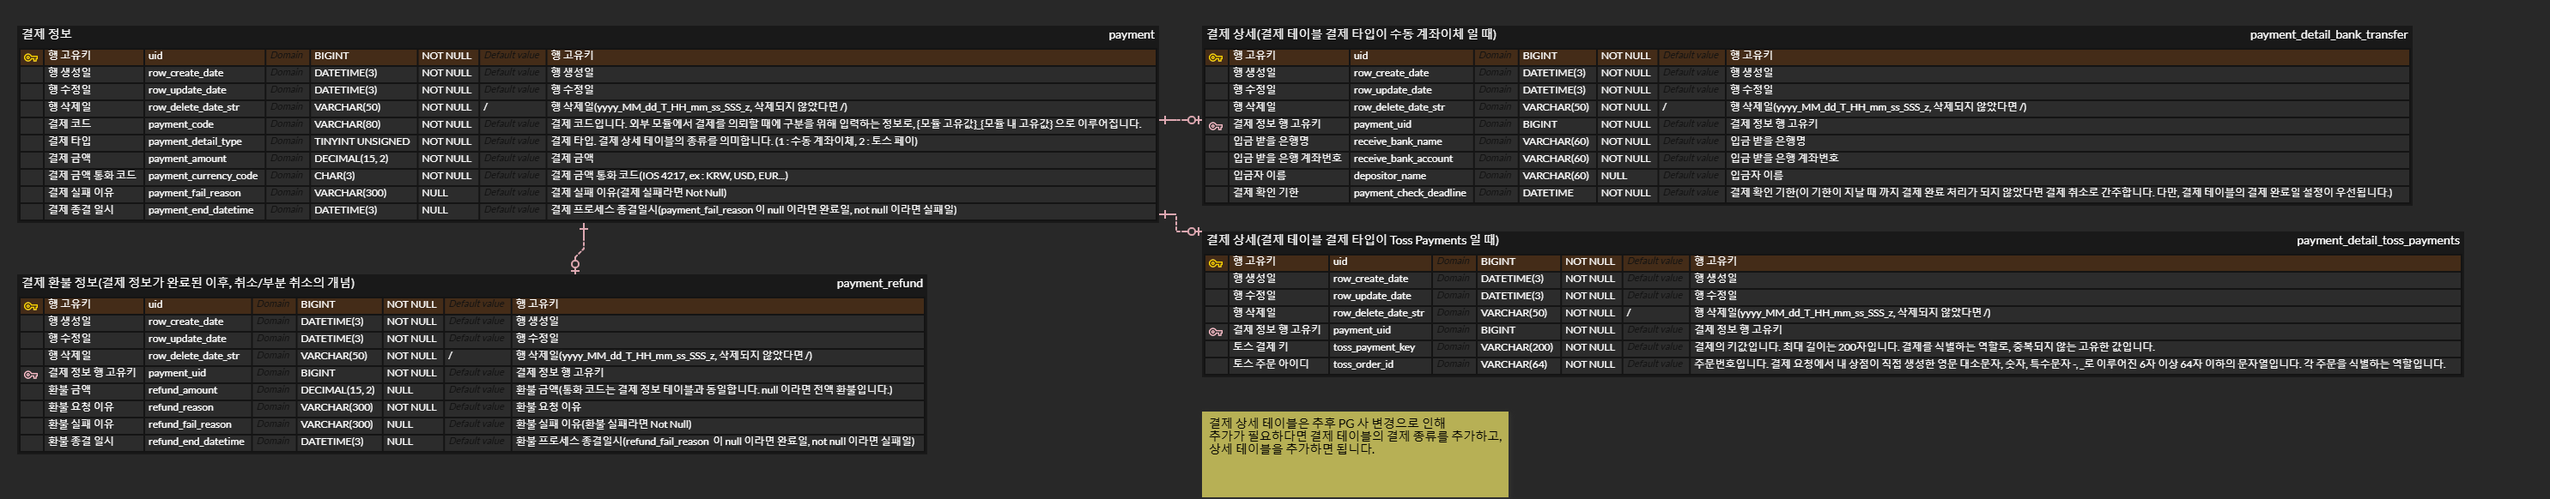
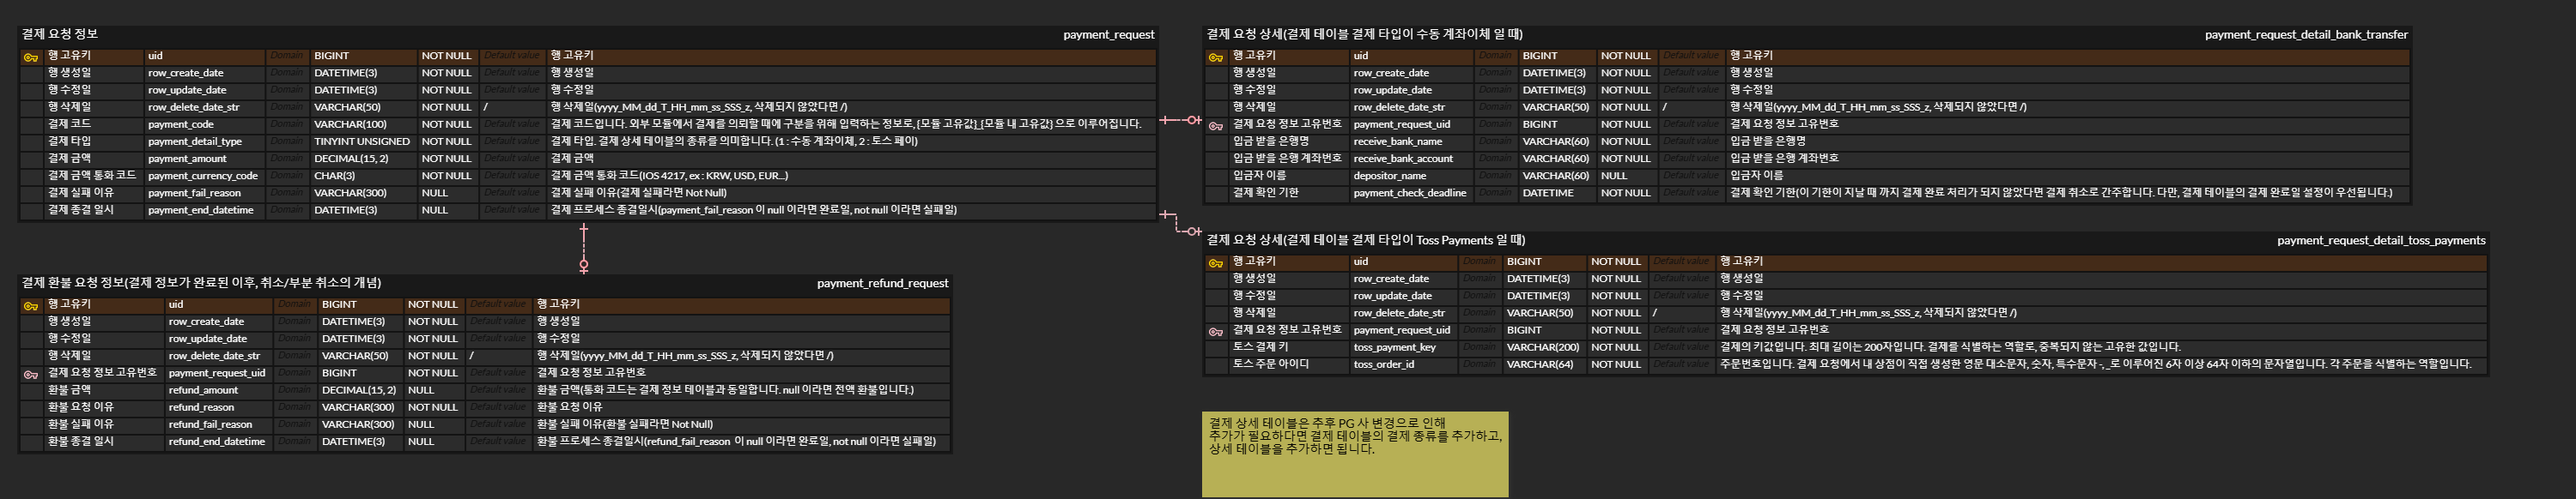
feat : ERD 수정 및 JPA 클래스 추가

diff --git a/module-payment/src/main/kotlin/com/raillylinker/jpa_beans/db1_main/entities/Db1_RaillyLinkerCompany_PaymentRequest.kt b/module-payment/src/main/kotlin/com/raillylinker/jpa_beans/db1_main/entities/Db1_RaillyLinkerCompany_PaymentRequest.kt
@@ -1,0 +1,86 @@
+package com.raillylinker.jpa_beans.db1_main.entities
+
+import jakarta.persistence.*
+import org.hibernate.annotations.ColumnDefault
+import org.hibernate.annotations.Comment
+import org.hibernate.annotations.CreationTimestamp
+import org.hibernate.annotations.UpdateTimestamp
+import java.math.BigDecimal
+import java.time.LocalDateTime
+
+@Entity
+@Table(
+    name = "payment_request",
+    catalog = "railly_linker_company",
+    uniqueConstraints = [
+        UniqueConstraint(columnNames = ["payment_code", "row_delete_date_str"])
+    ]
+)
+@Comment("결제 요청 정보 테이블")
+class Db1_RaillyLinkerCompany_PaymentRequest(
+    @Column(name = "payment_code", nullable = false, columnDefinition = "VARCHAR(100)")
+    @Comment("결제 코드입니다. 외부 모듈에서 결제를 의뢰할 때에 구분을 위해 입력하는 정보로, {모듈간 구분할 수 있는 고유값}_{모듈 내에서 구분 가능한 고유값} 으로 이루어집니다.")
+    var paymentCode: String,
+
+    @Column(name = "payment_detail_type", nullable = false, columnDefinition = "TINYINT UNSIGNED")
+    @Comment("결제 타입. 결제 상세 테이블의 종류를 의미합니다. (1 : 수동 계좌이체, 2 : 토스 페이)")
+    var paymentDetailType: Short,
+
+    @Column(name = "payment_amount", nullable = false, columnDefinition = "DECIMAL(15, 2)")
+    @Comment("결제 금액")
+    var paymentAmount: BigDecimal,
+
+    @Column(name = "payment_currency_code", nullable = false, columnDefinition = "CHAR(3)")
+    @Comment("결제 금액 통화 코드(IOS 4217, ex : KRW, USD, EUR...)")
+    var paymentCurrencyCode: String,
+
+    @Column(name = "payment_fail_reason", nullable = true, columnDefinition = "VARCHAR(300)")
+    @Comment("결제 실패 이유(결제 실패라면 Not Null)")
+    var paymentFailReason: String?,
+
+    @Column(name = "payment_end_datetime", nullable = true, columnDefinition = "DATETIME(3)")
+    @Comment("결제 프로세스 종결일시(payment_fail_reason 이 null 이라면 완료일, not null 이라면 실패일)")
+    var paymentEndDatetime: LocalDateTime?
+) {
+    @Id
+    @GeneratedValue(strategy = GenerationType.IDENTITY)
+    @Column(name = "uid", columnDefinition = "BIGINT")
+    @Comment("행 고유값")
+    var uid: Long? = null
+
+    @Column(name = "row_create_date", nullable = false, columnDefinition = "DATETIME(3)")
+    @CreationTimestamp
+    @Comment("행 생성일")
+    var rowCreateDate: LocalDateTime? = null
+
+    @Column(name = "row_update_date", nullable = false, columnDefinition = "DATETIME(3)")
+    @UpdateTimestamp
+    @Comment("행 수정일")
+    var rowUpdateDate: LocalDateTime? = null
+
+    @Column(name = "row_delete_date_str", nullable = false, columnDefinition = "VARCHAR(50)")
+    @ColumnDefault("'/'")
+    @Comment("행 삭제일(yyyy_MM_dd_T_HH_mm_ss_SSS_z, 삭제되지 않았다면 /)")
+    var rowDeleteDateStr: String = "/"
+
+    // ---------------------------------------------------------------------------------------------
+    // [@OneToMany 변수들]
+    // Row 삭제시 삭제 처리
+    @OneToMany(mappedBy = "paymentRequest", fetch = FetchType.LAZY, cascade = [CascadeType.ALL])
+    var paymentRefundRequestList: MutableList<Db1_RaillyLinkerCompany_PaymentRefundRequest> = mutableListOf()
+
+    // Row 삭제시 삭제 처리
+    @OneToMany(mappedBy = "paymentRequest", fetch = FetchType.LAZY, cascade = [CascadeType.ALL])
+    var paymentRequestDetailBankTransferList: MutableList<Db1_RaillyLinkerCompany_PaymentRequestDetailBankTransfer> =
+        mutableListOf()
+
+    // Row 삭제시 삭제 처리
+    @OneToMany(mappedBy = "paymentRequest", fetch = FetchType.LAZY, cascade = [CascadeType.ALL])
+    var paymentRequestDetailTossPaymentsList: MutableList<Db1_RaillyLinkerCompany_PaymentRequestDetailTossPayments> =
+        mutableListOf()
+
+
+    // ---------------------------------------------------------------------------------------------
+    // <중첩 클래스 공간>
+
+}

diff --git a/module-payment/src/main/kotlin/com/raillylinker/jpa_beans/db1_main/entities/Db1_RaillyLinkerCompany_PaymentRequestDetailBankTransfer.kt b/module-payment/src/main/kotlin/com/raillylinker/jpa_beans/db1_main/entities/Db1_RaillyLinkerCompany_PaymentRequestDetailBankTransfer.kt
@@ -1,0 +1,67 @@
+package com.raillylinker.jpa_beans.db1_main.entities
+
+import jakarta.persistence.*
+import org.hibernate.annotations.ColumnDefault
+import org.hibernate.annotations.Comment
+import org.hibernate.annotations.CreationTimestamp
+import org.hibernate.annotations.UpdateTimestamp
+import java.math.BigDecimal
+import java.time.LocalDateTime
+
+@Entity
+@Table(
+    name = "payment_request_detail_bank_transfer",
+    catalog = "railly_linker_company"
+)
+@Comment("결제 요청 상세(결제 테이블 결제 타입이 수동 계좌이체 일 때)")
+class Db1_RaillyLinkerCompany_PaymentRequestDetailBankTransfer(
+    @ManyToOne
+    @JoinColumn(name = "payment_request_uid", nullable = false)
+    @Comment("결제 요청 정보 고유번호(railly_linker_company.payment_request.uid)")
+    var paymentRequest: Db1_RaillyLinkerCompany_PaymentRequest,
+
+    @Column(name = "receive_bank_name", nullable = false, columnDefinition = "VARCHAR(60)")
+    @Comment("입금 받을 은행명")
+    var receiveBankName: String,
+
+    @Column(name = "receive_bank_account", nullable = false, columnDefinition = "VARCHAR(60)")
+    @Comment("입금 받을 은행 계좌번호")
+    var receiveBankAccount: String,
+
+    @Column(name = "depositor_name", nullable = true, columnDefinition = "VARCHAR(60)")
+    @Comment("입금자 이름")
+    var depositorName: String?,
+
+    @Column(name = "payment_check_deadline", nullable = false, columnDefinition = "DATETIME")
+    @Comment("결제 확인 기한(이 기한이 지날 때 까지 결제 완료 처리가 되지 않았다면 결제 취소로 간주합니다. 다만, 결제 테이블의 결제 완료일 설정이 우선됩니다.)")
+    var paymentCheckDeadline: LocalDateTime
+) {
+    @Id
+    @GeneratedValue(strategy = GenerationType.IDENTITY)
+    @Column(name = "uid", columnDefinition = "BIGINT")
+    @Comment("행 고유값")
+    var uid: Long? = null
+
+    @Column(name = "row_create_date", nullable = false, columnDefinition = "DATETIME(3)")
+    @CreationTimestamp
+    @Comment("행 생성일")
+    var rowCreateDate: LocalDateTime? = null
+
+    @Column(name = "row_update_date", nullable = false, columnDefinition = "DATETIME(3)")
+    @UpdateTimestamp
+    @Comment("행 수정일")
+    var rowUpdateDate: LocalDateTime? = null
+
+    @Column(name = "row_delete_date_str", nullable = false, columnDefinition = "VARCHAR(50)")
+    @ColumnDefault("'/'")
+    @Comment("행 삭제일(yyyy_MM_dd_T_HH_mm_ss_SSS_z, 삭제되지 않았다면 /)")
+    var rowDeleteDateStr: String = "/"
+
+    // ---------------------------------------------------------------------------------------------
+    // [@OneToMany 변수들]
+
+
+    // ---------------------------------------------------------------------------------------------
+    // <중첩 클래스 공간>
+
+}

diff --git a/module-payment/src/main/kotlin/com/raillylinker/jpa_beans/db1_main/entities/Db1_RaillyLinkerCompany_PaymentRefundRequest.kt b/module-payment/src/main/kotlin/com/raillylinker/jpa_beans/db1_main/entities/Db1_RaillyLinkerCompany_PaymentRefundRequest.kt
@@ -1,0 +1,67 @@
+package com.raillylinker.jpa_beans.db1_main.entities
+
+import jakarta.persistence.*
+import org.hibernate.annotations.ColumnDefault
+import org.hibernate.annotations.Comment
+import org.hibernate.annotations.CreationTimestamp
+import org.hibernate.annotations.UpdateTimestamp
+import java.math.BigDecimal
+import java.time.LocalDateTime
+
+@Entity
+@Table(
+    name = "payment_refund_request",
+    catalog = "railly_linker_company"
+)
+@Comment("결제 환불 요청 정보(결제 정보가 완료된 이후, 취소/부분 취소의 개념)")
+class Db1_RaillyLinkerCompany_PaymentRefundRequest(
+    @ManyToOne
+    @JoinColumn(name = "payment_request_uid", nullable = false)
+    @Comment("결제 요청 정보 고유번호(railly_linker_company.payment_request.uid)")
+    var paymentRequest: Db1_RaillyLinkerCompany_PaymentRequest,
+
+    @Column(name = "refund_amount", nullable = true, columnDefinition = "DECIMAL(15, 2)")
+    @Comment("환불 금액(통화 코드는 결제 정보 테이블과 동일합니다. null 이라면 전액 환불입니다.)")
+    var refundAmount: BigDecimal?,
+
+    @Column(name = "refund_reason", nullable = false, columnDefinition = "VARCHAR(300)")
+    @Comment("환불 요청 이유")
+    var refundReason: String,
+
+    @Column(name = "refund_fail_reason", nullable = true, columnDefinition = "VARCHAR(300)")
+    @Comment("환불 실패 이유(환불 실패라면 Not Null)")
+    var refundFailReason: String?,
+
+    @Column(name = "refund_end_datetime", nullable = true, columnDefinition = "DATETIME(3)")
+    @Comment("환불 프로세스 종결일시(refund_fail_reason  이 null 이라면 완료일, not null 이라면 실패일)")
+    var refundEndDatetime: LocalDateTime?
+) {
+    @Id
+    @GeneratedValue(strategy = GenerationType.IDENTITY)
+    @Column(name = "uid", columnDefinition = "BIGINT")
+    @Comment("행 고유값")
+    var uid: Long? = null
+
+    @Column(name = "row_create_date", nullable = false, columnDefinition = "DATETIME(3)")
+    @CreationTimestamp
+    @Comment("행 생성일")
+    var rowCreateDate: LocalDateTime? = null
+
+    @Column(name = "row_update_date", nullable = false, columnDefinition = "DATETIME(3)")
+    @UpdateTimestamp
+    @Comment("행 수정일")
+    var rowUpdateDate: LocalDateTime? = null
+
+    @Column(name = "row_delete_date_str", nullable = false, columnDefinition = "VARCHAR(50)")
+    @ColumnDefault("'/'")
+    @Comment("행 삭제일(yyyy_MM_dd_T_HH_mm_ss_SSS_z, 삭제되지 않았다면 /)")
+    var rowDeleteDateStr: String = "/"
+
+    // ---------------------------------------------------------------------------------------------
+    // [@OneToMany 변수들]
+
+
+    // ---------------------------------------------------------------------------------------------
+    // <중첩 클래스 공간>
+
+}

diff --git a/module-payment/src/main/kotlin/com/raillylinker/jpa_beans/db1_main/entities/Db1_RaillyLinkerCompany_PaymentRequestDetailTossPayments.kt b/module-payment/src/main/kotlin/com/raillylinker/jpa_beans/db1_main/entities/Db1_RaillyLinkerCompany_PaymentRequestDetailTossPayments.kt
@@ -1,0 +1,59 @@
+package com.raillylinker.jpa_beans.db1_main.entities
+
+import jakarta.persistence.*
+import org.hibernate.annotations.ColumnDefault
+import org.hibernate.annotations.Comment
+import org.hibernate.annotations.CreationTimestamp
+import org.hibernate.annotations.UpdateTimestamp
+import java.math.BigDecimal
+import java.time.LocalDateTime
+
+@Entity
+@Table(
+    name = "payment_request_detail_toss_payments",
+    catalog = "railly_linker_company"
+)
+@Comment("결제 요청 상세(결제 테이블 결제 타입이 Toss Payments 일 때)")
+class Db1_RaillyLinkerCompany_PaymentRequestDetailTossPayments(
+    @ManyToOne
+    @JoinColumn(name = "payment_request_uid", nullable = false)
+    @Comment("결제 요청 정보 고유번호(railly_linker_company.payment_request.uid)")
+    var paymentRequest: Db1_RaillyLinkerCompany_PaymentRequest,
+
+    @Column(name = "toss_payment_key", nullable = false, columnDefinition = "VARCHAR(200)")
+    @Comment("결제의 키값입니다. 최대 길이는 200자입니다. 결제를 식별하는 역할로, 중복되지 않는 고유한 값입니다.")
+    var tossPaymentKey: String,
+
+    @Column(name = "toss_order_id", nullable = false, columnDefinition = "VARCHAR(64)")
+    @Comment("주문번호입니다. 결제 요청에서 내 상점이 직접 생성한 영문 대소문자, 숫자, 특수문자 -, _로 이루어진 6자 이상 64자 이하의 문자열입니다. 각 주문을 식별하는 역할입니다.")
+    var tossOrderId: String
+) {
+    @Id
+    @GeneratedValue(strategy = GenerationType.IDENTITY)
+    @Column(name = "uid", columnDefinition = "BIGINT")
+    @Comment("행 고유값")
+    var uid: Long? = null
+
+    @Column(name = "row_create_date", nullable = false, columnDefinition = "DATETIME(3)")
+    @CreationTimestamp
+    @Comment("행 생성일")
+    var rowCreateDate: LocalDateTime? = null
+
+    @Column(name = "row_update_date", nullable = false, columnDefinition = "DATETIME(3)")
+    @UpdateTimestamp
+    @Comment("행 수정일")
+    var rowUpdateDate: LocalDateTime? = null
+
+    @Column(name = "row_delete_date_str", nullable = false, columnDefinition = "VARCHAR(50)")
+    @ColumnDefault("'/'")
+    @Comment("행 삭제일(yyyy_MM_dd_T_HH_mm_ss_SSS_z, 삭제되지 않았다면 /)")
+    var rowDeleteDateStr: String = "/"
+
+    // ---------------------------------------------------------------------------------------------
+    // [@OneToMany 변수들]
+
+
+    // ---------------------------------------------------------------------------------------------
+    // <중첩 클래스 공간>
+
+}

diff --git a/module-payment/src/main/kotlin/com/raillylinker/jpa_beans/db1_main/repositories/Db1_RaillyLinkerCompany_PaymentRequestDetailBankTransfer_Repository.kt b/module-payment/src/main/kotlin/com/raillylinker/jpa_beans/db1_main/repositories/Db1_RaillyLinkerCompany_PaymentRequestDetailBankTransfer_Repository.kt
@@ -1,0 +1,12 @@
+package com.raillylinker.jpa_beans.db1_main.repositories
+
+import com.raillylinker.jpa_beans.db1_main.entities.Db1_RaillyLinkerCompany_PaymentRequestDetailBankTransfer
+import org.springframework.data.jpa.repository.JpaRepository
+import org.springframework.stereotype.Repository
+
+// (JPA 레포지토리)
+// : 함수 작성 명명법에 따라 데이터베이스 SQL 동작을 자동지원
+@Repository
+interface Db1_RaillyLinkerCompany_PaymentRequestDetailBankTransfer_Repository :
+    JpaRepository<Db1_RaillyLinkerCompany_PaymentRequestDetailBankTransfer, Long> {
+}

diff --git a/module-payment/src/main/kotlin/com/raillylinker/jpa_beans/db1_main/repositories/Db1_RaillyLinkerCompany_PaymentRequestDetailTossPayments_Repository.kt b/module-payment/src/main/kotlin/com/raillylinker/jpa_beans/db1_main/repositories/Db1_RaillyLinkerCompany_PaymentRequestDetailTossPayments_Repository.kt
@@ -1,0 +1,12 @@
+package com.raillylinker.jpa_beans.db1_main.repositories
+
+import com.raillylinker.jpa_beans.db1_main.entities.Db1_RaillyLinkerCompany_PaymentRequestDetailTossPayments
+import org.springframework.data.jpa.repository.JpaRepository
+import org.springframework.stereotype.Repository
+
+// (JPA 레포지토리)
+// : 함수 작성 명명법에 따라 데이터베이스 SQL 동작을 자동지원
+@Repository
+interface Db1_RaillyLinkerCompany_PaymentRequestDetailTossPayments_Repository :
+    JpaRepository<Db1_RaillyLinkerCompany_PaymentRequestDetailTossPayments, Long> {
+}

diff --git a/module-payment/src/main/kotlin/com/raillylinker/jpa_beans/db1_main/repositories/Db1_RaillyLinkerCompany_PaymentRefundRequest_Repository.kt b/module-payment/src/main/kotlin/com/raillylinker/jpa_beans/db1_main/repositories/Db1_RaillyLinkerCompany_PaymentRefundRequest_Repository.kt
@@ -1,0 +1,12 @@
+package com.raillylinker.jpa_beans.db1_main.repositories
+
+import com.raillylinker.jpa_beans.db1_main.entities.Db1_RaillyLinkerCompany_PaymentRefundRequest
+import org.springframework.data.jpa.repository.JpaRepository
+import org.springframework.stereotype.Repository
+
+// (JPA 레포지토리)
+// : 함수 작성 명명법에 따라 데이터베이스 SQL 동작을 자동지원
+@Repository
+interface Db1_RaillyLinkerCompany_PaymentRefundRequest_Repository :
+    JpaRepository<Db1_RaillyLinkerCompany_PaymentRefundRequest, Long> {
+}

diff --git a/module-payment/src/main/kotlin/com/raillylinker/jpa_beans/db1_main/repositories/Db1_RaillyLinkerCompany_PaymentRequest_Repository.kt b/module-payment/src/main/kotlin/com/raillylinker/jpa_beans/db1_main/repositories/Db1_RaillyLinkerCompany_PaymentRequest_Repository.kt
@@ -1,0 +1,12 @@
+package com.raillylinker.jpa_beans.db1_main.repositories
+
+import com.raillylinker.jpa_beans.db1_main.entities.Db1_RaillyLinkerCompany_PaymentRequest
+import org.springframework.data.jpa.repository.JpaRepository
+import org.springframework.stereotype.Repository
+
+// (JPA 레포지토리)
+// : 함수 작성 명명법에 따라 데이터베이스 SQL 동작을 자동지원
+@Repository
+interface Db1_RaillyLinkerCompany_PaymentRequest_Repository :
+    JpaRepository<Db1_RaillyLinkerCompany_PaymentRequest, Long> {
+}
